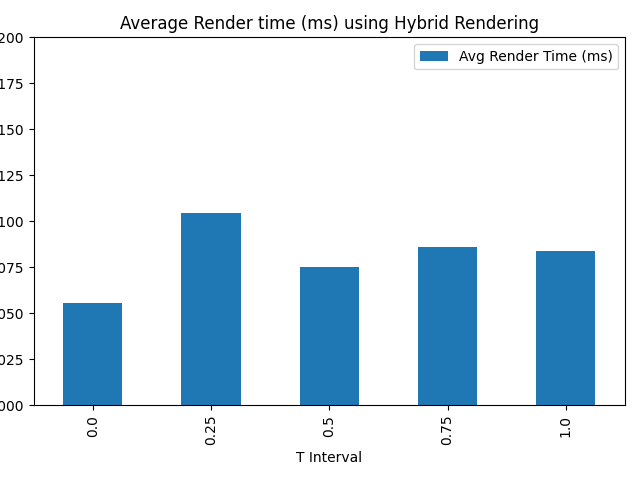
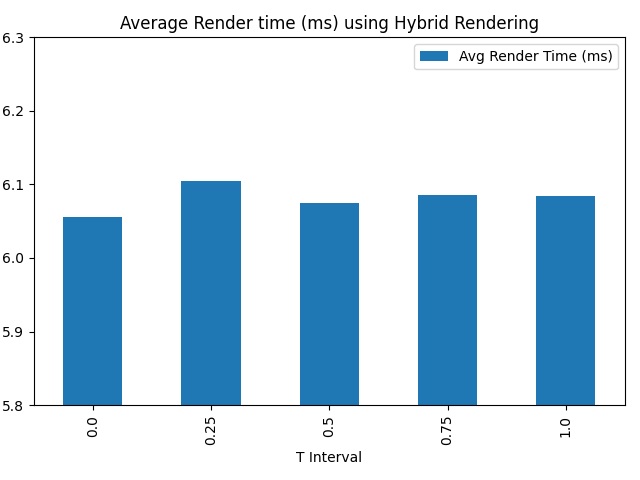
finalized graphs

diff --git a/benchmark_results/create_figures.py b/benchmark_results/create_figures.py
@@ -62,14 +62,86 @@ def create_t_barchart_build_time(df: pd.DataFrame, filename: str, title: str, yl
     plt.ylim(ylimits[0], ylimits[1])
     plt.savefig(filename)
 
+def hr_per_pass_bar_char(df: pd.DataFrame, filename: str, title: str):
+    T_LIST = [ 0.0, 0.25, 0.50, 0.75, 1.00 ]
+    t_data = {
+        'T Interval': [],
+        'Avg RNG Generation time (ms)': [],
+        'Avg GBuffer Layout time (ms)': [],
+        'Avg GBuffer Sample time (ms)': [],
+        'Avg Direct Illumination time (ms)': [],
+        'Avg Deferred Shading time (ms)': [],
+        'Avg Reprojection time (ms)': [],
+    }
+
+    for t in T_LIST:
+        t_df = df[df['T Interval'] == t]
+        t_df = t_df[t_df['Camera Position'] == 0]
+        t_data['T Interval'].append(t)
+        t_data['Avg RNG Generation time (ms)'].append(t_df['RNG Generation time (ms)'].mean())
+        t_data['Avg GBuffer Layout time (ms)'].append(t_df['GBuffer Layout time (ms)'].mean())
+        t_data['Avg GBuffer Sample time (ms)'].append(t_df['GBuffer Sample time (ms)'].mean())
+        t_data['Avg Direct Illumination time (ms)'].append(t_df['Direct Illumination time (ms)'].mean())
+        t_data['Avg Deferred Shading time (ms)'].append(t_df['Deferred Shading time (ms)'].mean())
+        t_data['Avg Reprojection time (ms)'].append(t_df['Reprojection time (ms)'].mean())
+
+    avg_df = pd.DataFrame(t_data)
+    avg_df.plot.bar('T Interval', stacked=True)
+    plt.title(title)
+    plt.tight_layout()
+    plt.savefig(filename)
+
+def hr_pass_time_bar_char(df: pd.DataFrame, filename: str, title: str, column: str):
+    T_LIST = [ 0.0, 0.25, 0.50, 0.75, 1.00 ]
+    t_data = {
+        'T Interval': [],
+        f'Avg {column}': [],
+    }
+
+    for t in T_LIST:
+        t_df = df[df['T Interval'] == t]
+        t_df = t_df[t_df['Camera Position'] == 0]
+        t_data['T Interval'].append(t)
+        t_data[f'Avg {column}'].append(t_df[column].mean())
+
+    avg_df = pd.DataFrame(t_data)
+    avg_df.plot.bar('T Interval', stacked=True)
+    plt.title(title)
+    plt.tight_layout()
+    plt.savefig(filename)
+
+def create_bar_char_performance(df_hr: pd.DataFrame, df_pt: pd.DataFrame, filename: str, title: str):
+    data = {
+        'Renderer': [
+            'Hybrid Renderer',
+            'Path Tracer',
+        ],
+        'Avg Render Time (ms)': [
+            df_hr['Total Render time (ms)'].mean(),
+            df_pt['Total Render time (ms)'].mean(),
+        ]
+    }
+
+    df = pd.DataFrame(data)
+    df.plot.bar()
+    plt.title(title)
+    plt.tight_layout()
+    plt.savefig(filename)
+
 pt_df = create_dataset(PT_FILES, PT_RP_COLS)
 hr_df = create_dataset(HR_FILES, HR_RP_COLS)
 
-create_t_barchart(hr_df, 'figs/hr_avg_rendertime.png', 'Average Render time (ms) using Hybrid Rendering', [ 6.0, 6.2 ], False)
-create_t_barchart(pt_df, 'figs/pt_avg_rendertime.png', 'Average Render time (ms) using Pathtracing', [ 2.1, 2.3 ], False)
+create_t_barchart(hr_df, 'figs/hr_avg_rendertime.png', 'Average Render time (ms) using Hybrid Rendering', [ 5.8, 6.3 ], False)
+create_t_barchart(pt_df, 'figs/pt_avg_rendertime.png', 'Average Render time (ms) using Pathtracing', [ 2.0, 2.4 ], False)
 
 create_t_barchart(hr_df, 'figs/hr_avg_rendertime_view0.png', 'Average Render time (ms) for View 0 using Hybrid Rendering', [ 2.25, 2.75 ], True)
 create_t_barchart(pt_df, 'figs/pt_avg_rendertime_view0.png', 'Average Render time (ms) for View 0 using Pathtracing', [ 1.50, 2.00 ], True)
 
 create_t_barchart_build_time(hr_df, 'figs/hr_avg_as_build_time.png', 'Average AS Build time (ms) using Hybrid Rendering', [ 1.0, 3.0 ])
 create_t_barchart_build_time(pt_df, 'figs/pt_avg_as_build_time.png', 'Average AS Build time (ms) using Pathtracing', [ 1.0, 3.0 ])
+
+create_bar_char_performance(hr_df, pt_df, 'figs/performance_comp.png', 'Average render time for each renderer.')
+
+hr_per_pass_bar_char(hr_df, 'figs/hr_avg_per_pass.png', 'Per pass render time for Hybrid Rendering')
+hr_pass_time_bar_char(hr_df, 'figs/hr_gbuff_sample_time.png', 'GBuffer Sample pass Render time', 'GBuffer Sample time (ms)')
+hr_pass_time_bar_char(hr_df, 'figs/hr_gbuff_layout_time.png', 'GBuffer Layout pass Render time', 'GBuffer Layout time (ms)')
